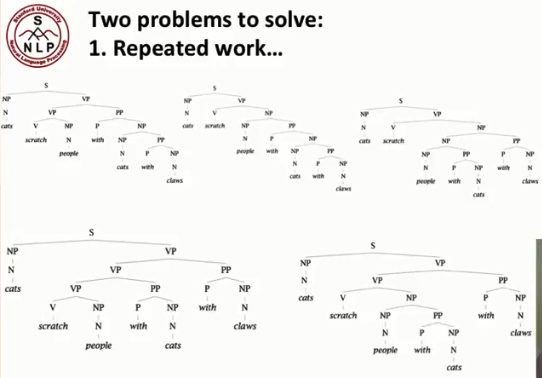
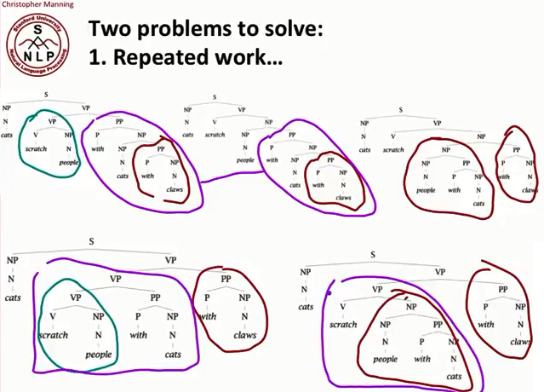
p

diff --git a/_posts/BookNote/_posts/2019-05-01-NL-From Languages to Information week6.md b/_posts/BookNote/_posts/2019-05-01-NL-From Languages to Information week6.md
@@ -206,3 +206,23 @@ millions of parses(这句话有数百万的解析)
 ## Attachment ambiguities(依恋歧义)  
 
 图中展示介词短语修饰(依恋)对象  
+
+![_config.yml]({{ site.baseurl }}/images/9From Languages to Information/image500.png)   
+
+the number of possible structures  
+
+![_config.yml]({{ site.baseurl }}/images/9From Languages to Information/image501.png)    
+
+two prepositional phrases the number of possible structures is 5  
+
+so the secret to building efficient parsers and getting away from doing an exponential amount of work is to avoid doing the same work twice we only want to find possible pieces of structure for a sentence precisely once and then we'll be able to turn parsing from an exponential problem into a polynomial time problem problem
+
+![_config.yml]({{ site.baseurl }}/images/9From Languages to Information/image502.png)  
+
+![_config.yml]({{ site.baseurl }}/images/9From Languages to Information/image503.png)   
+
+![_config.yml]({{ site.baseurl }}/images/9From Languages to Information/image504.png)  
+
+![_config.yml]({{ site.baseurl }}/images/9From Languages to Information/image505.png)  
+ 
+we'll do our statistical parsers will try and exploit such statistics about word combination which kind of preposition is likely to go with which nouns and which verbs to be able to choose the correct parses of sentences without having full understanding of them
